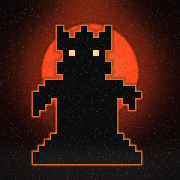
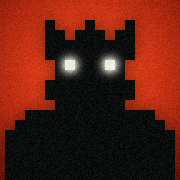
Icono nuevo: el busto del Rey centrado sobre rojo (web, app instalable y .exe), generado por script
Claude-Session: https://claude.ai/code/session_011e9bsgAtfaut2AWevcHQQR

diff --git a/scripts/icon/make_icon.py b/scripts/icon/make_icon.py
@@ -1,0 +1,81 @@
+"""
+--- ICONO DE LA APP: el busto del Rey sobre rojo ---
+Uso: python3 scripts/icon/make_icon.py   (necesita numpy y Pillow)
+
+Fondo bermellón a sangre con el centro encendido, el busto del Rey (cabeza y hombros,
+cortado por abajo) en silueta negra, centrado, con los ojos crema encendidos, y grano de
+impresión. Cada tamaño se pinta a 4× con el Rey a escala entera y se reduce por bloques,
+así los píxeles del Rey quedan nítidos y el fondo, suave.
+"""
+import os
+import numpy as np
+from PIL import Image, ImageDraw, ImageFilter
+
+ROOT = os.path.abspath(os.path.join(os.path.dirname(__file__), '..', '..'))
+BLACK, CREAM, ORANGE, DEEP = (11, 13, 12), (237, 235, 224), (255, 74, 28), (120, 18, 8)
+
+# El Rey de la carta, sin cetro y simétrico (17 de ancho, centro en la columna 8)
+LEFT = ['....o...o', '....oo.oo', '....ooooo', '....ooooo', '.....oeoo', '.....oooo', '....ooooo', '....ooooo',
+        '.....oooo', '..ooooooo', '.oooooooo', 'ooooooooo']
+BUST = [r + r[-2::-1] for r in LEFT]
+BUST += [BUST[-1]] * 4  # el busto sigue hasta el borde de abajo
+
+
+def render(size, scale, top_pad=None, seed=1):
+    """Icono de `size` px; el Rey a `scale` px por píxel, pegado abajo y centrado"""
+    m = 4
+    S, k = size * m, scale * m
+    f = S / 512  # radios de brillo, proporcionales
+    yy, xx = np.mgrid[0:S, 0:S]
+    t = np.clip(np.hypot(xx - S / 2, yy - S * 0.42) / (S * 0.78), 0, 1) ** 1.3
+    bg = np.array(ORANGE)[None, None] * (1 - t[..., None]) + np.array(DEEP)[None, None] * t[..., None]
+    img = Image.fromarray(bg.astype(np.uint8), 'RGB').convert('RGBA')
+
+    w, h = len(BUST[0]) * k, len(BUST) * k
+    ox, oy = (S - w) // 2, S - h
+    if top_pad is not None:  # con margen arriba (icono enmascarable): se sube lo justo
+        oy = min(oy, int(top_pad * S))
+
+    def mask(ch):
+        mk = Image.new('L', (S, S), 0)
+        d = ImageDraw.Draw(mk)
+        for y, r in enumerate(BUST):
+            for x, c in enumerate(r):
+                if c in ch:
+                    d.rectangle([ox + x * k, oy + y * k, ox + (x + 1) * k - 1, oy + (y + 1) * k - 1], fill=255)
+        return mk
+
+    def layer(color, alpha):
+        lay = Image.new('RGBA', (S, S), color + (255,))
+        lay.putalpha(alpha)
+        return lay
+
+    def glow(mk, color, r, gain):
+        return layer(color, mk.filter(ImageFilter.GaussianBlur(r * f)).point(lambda v: min(255, int(v * gain))))
+
+    body, eyes = mask('o'), mask('e')
+    img = Image.alpha_composite(img, glow(body, BLACK, 22, 0.55))
+    img = Image.alpha_composite(img, layer(BLACK, body))
+    img = Image.alpha_composite(img, glow(eyes, CREAM, 14, 2.5))
+    img = Image.alpha_composite(img, layer(CREAM, eyes))
+    img = img.resize((size, size), Image.BOX)
+    # Grano de impresión
+    a = np.array(img).astype(np.int16)
+    a[..., :3] = np.clip(a[..., :3] + np.random.default_rng(seed).integers(-9, 10, (size, size, 1)), 0, 255)
+    return Image.fromarray(a.astype(np.uint8), 'RGBA').convert('RGB')
+
+
+OUTPUTS = [
+    # (archivo, tamaño, escala del Rey, margen arriba para el enmascarable)
+    ('public/icons/icon-512.png', 512, 26, None),
+    ('public/icons/maskable-512.png', 512, 20, None),
+    ('public/icons/icon-192.png', 192, 10, None),
+    ('app/apple-icon.png', 180, 10, None),
+    ('app/icon.png', 64, 4, None),
+    ('desktop/build/icon.png', 512, 26, None),
+]
+
+if __name__ == '__main__':
+    for path, size, scale, pad in OUTPUTS:
+        render(size, scale, pad).save(os.path.join(ROOT, path), optimize=True)
+        print(path)

diff --git a/ART_DIRECTION.md b/ART_DIRECTION.md
@@ -878,10 +878,12 @@ solo sistema para que todo tenga la misma jerarquía (`components/modals/Dialog.
   mazo, tus dorsos, los dos en naranja) va separado por una rayita de lo del juego (reglas, estadísticas,
   ajustes). Recién desbloqueados, el Grimorio y el mazo llevan un **punto naranja** que
   late en la esquina (aviso de nuevo, `NewDot`); se quita la primera vez que se abren.
-- **Icono de la app:** nocturno y misterioso: fondo negro con un rojo muy profundo,
-  una luna-brasa naranja detrás de la cabeza, el Rey en silueta negra sin cetro con un
-  filo de contraluz naranja, los ojos encendidos (crema con resplandor), niebla baja,
-  viñeta y grano de impresión (`app/icon.png`, `app/apple-icon.png`, `public/icons/*`).
+- **Icono de la app (web, app instalable y el .exe de Steam):** fondo bermellón a sangre
+  con el centro encendido (sin disco ni viñeta), el busto del Rey en silueta negra
+  (cabeza con corona y hombros, cortado por abajo, simétrico y centrado, sin cetro), los
+  ojos crema encendidos y grano de impresión. Lo genera `scripts/icon/make_icon.py`
+  (`app/icon.png`, `app/apple-icon.png`, `public/icons/*`, `desktop/build/icon.png`):
+  cada tamaño se pinta con el Rey a escala entera para que no se emborrone.
 
 ## Escritorio (Steam, Windows)
 
